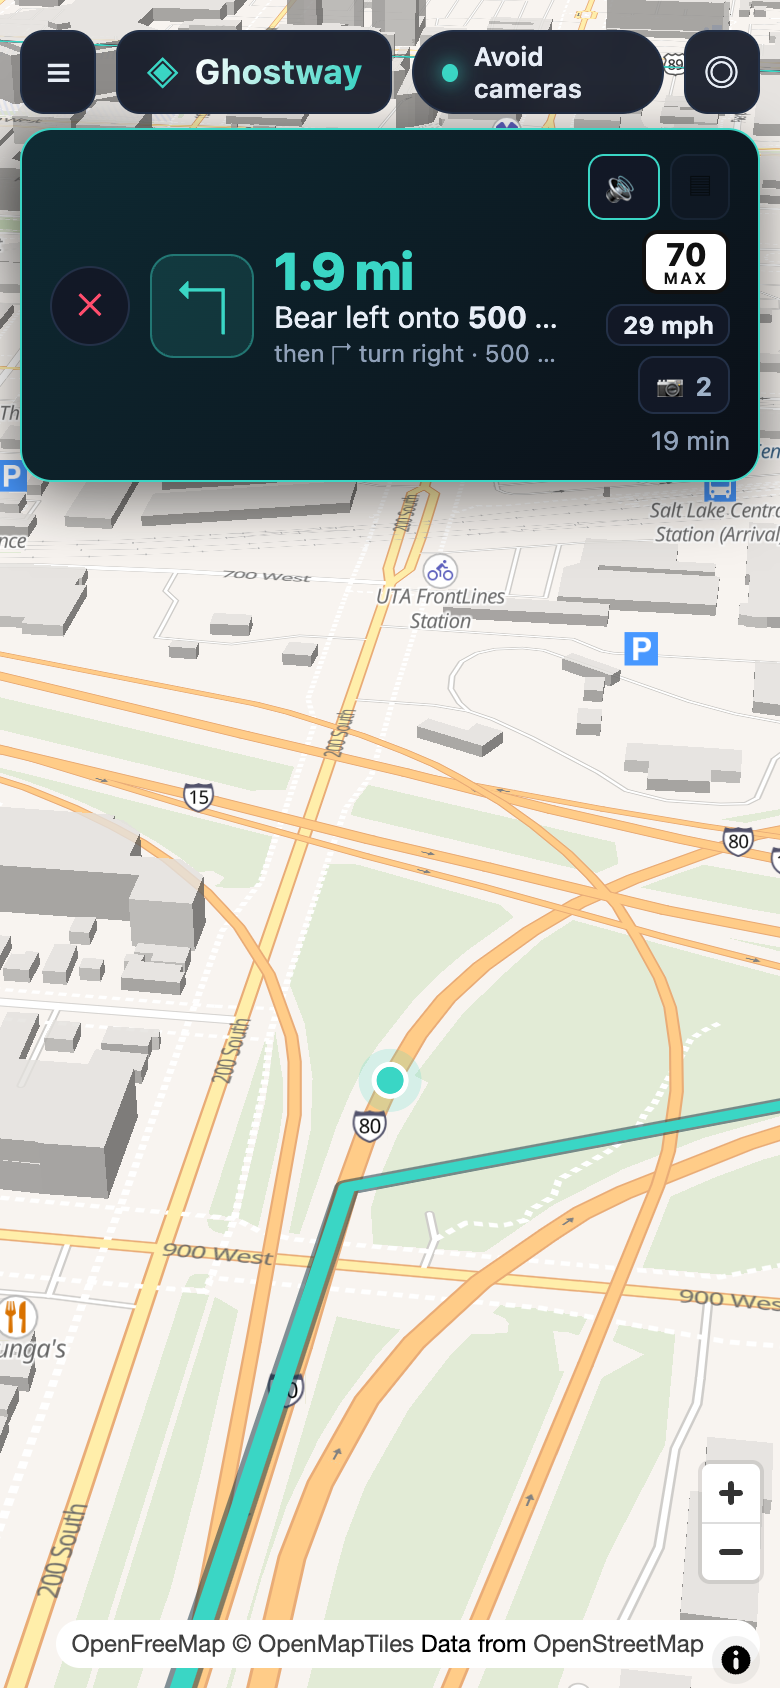
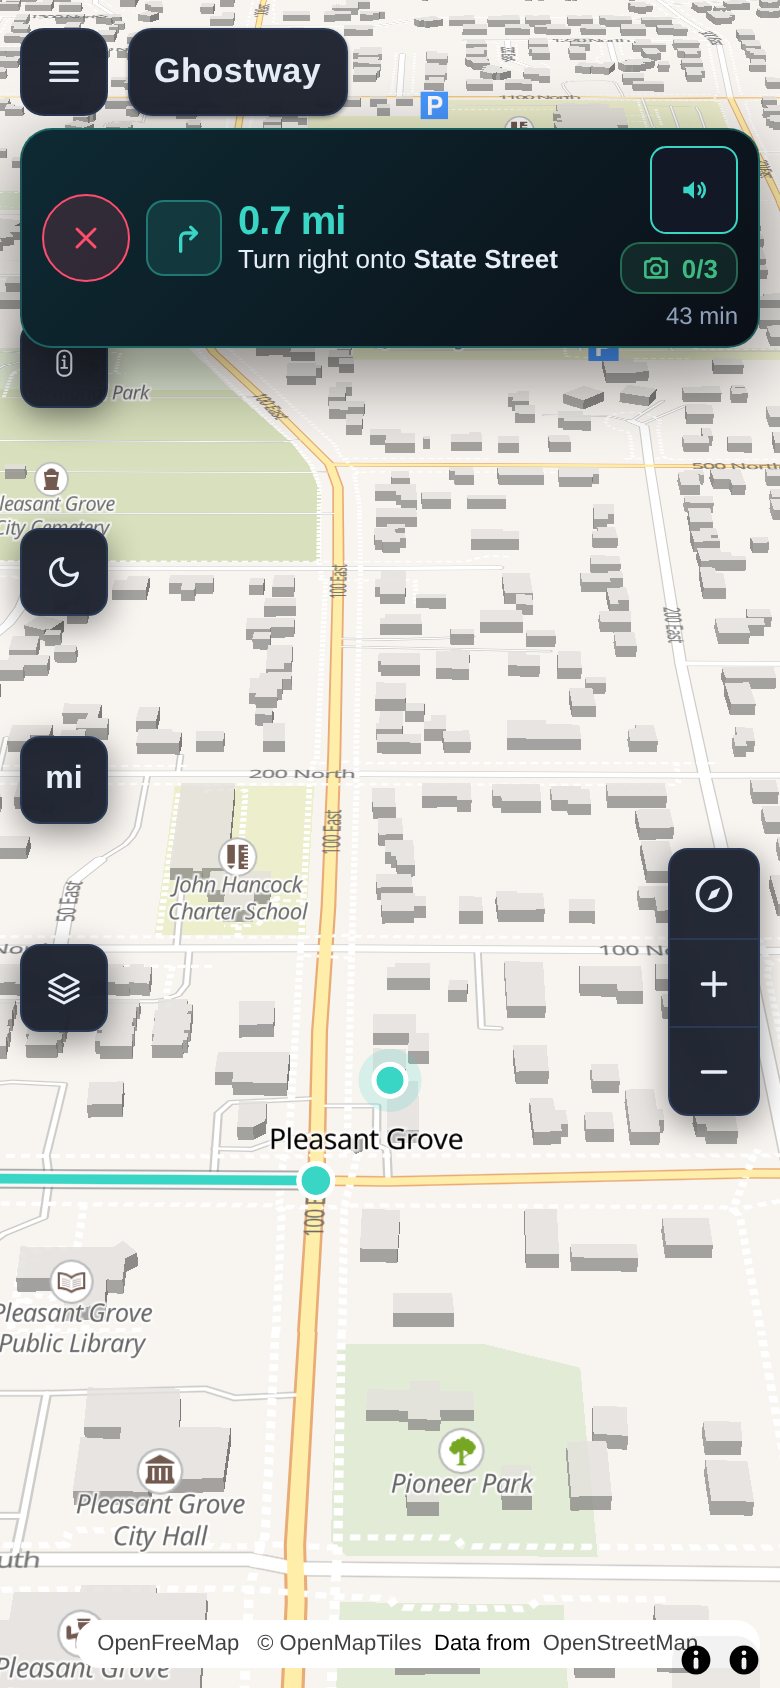
docs(readme): regenerate screenshots from current build and fix stale coverage facts (t_gwreadme1)
Screenshots (route-options.png, navigation.png) were dated 2026-09-25 and
predated the routing fixes. Regenerated from a build of current HEAD via the
new scripts/readme-screenshots.mjs harness (hermetic vite preview +
puppeteer-core + system chromium, 390x844 @2x, real app code paths only):

  route-options.png  Clearest 43 min / 3 cam, Balanced 43 min / 4 cam,
                     Fastest 41 min / 4 cam, 35 mi real route
  navigation.png     banner 0.7 mi, Turn right onto State Street,
                     camera counter 0/3, 43 min remaining

Harness waits for MapLibre tiles (areTilesLoaded poll) before the nav shot:
'idle' never fires under a live route, and the first pass captured a blank
basemap.

README facts corrected against the shipped artifacts:
  - Tier 1 is one shipped region covering the state of Utah, 1,528,472 road
    edges (graph header); graph is 1,477,863 nodes, ~19.5 MB gzipped.
    Dropped the unverified 9-300 ms routing claim.
  - 'Wasatch Front' graph-size line replaced with measured statewide figures.
  - Added: the graph downloads lazily, only for regions a route touches.
  - Testing: '20 automated suites' was stale; 80+ *-check.mjs suites ship.
  - Image paths unchanged and all local README targets verified present.

Not pushed: G-78 publish/merge gate.

diff --git a/README.md b/README.md
@@ -65,19 +65,21 @@ to keep you off those roads by default.
 
 | Tier | Engine | Coverage | Notes |
 |---|---|---|---|
-| 1 | **Ghostway's own graph** | Utah statewide, 1.5M road edges | On-device A*, camera + traffic costs + OSM turn restrictions, 9–300 ms per route |
+| 1 | **Ghostway's own graph** | Utah statewide (one shipped region), 1,528,472 road edges | On-device A*, camera + traffic costs + OSM turn restrictions. More regions are a graph build plus one `CONFIG.engineRegions` entry |
 | 2 | **Valhalla** (public demo) | Worldwide | Key-free, CORS-open; camera avoidance via `exclude_locations` |
 | 3 | **BRouter + OSRM** | Worldwide | Legacy fallback of last resort (flaky public servers) |
 
-Tier selection is automatic per corridor. Self-hosting Valhalla for higher
-limits is documented in [`docs/valhalla-docker.md`](docs/valhalla-docker.md) —
-point `CONFIG.valhallaUrl` at it and nothing else changes.
+Tier selection is automatic per corridor. The graph downloads lazily: only a
+route that touches a shipped region fetches that region's graph, so users
+elsewhere never pay for it. Self-hosting Valhalla for higher limits is
+documented in [`docs/valhalla-docker.md`](docs/valhalla-docker.md): point
+`CONFIG.valhallaUrl` at it and nothing else changes.
 
 ## How camera avoidance works (own engine)
 
 1. OpenStreetMap roads are filtered to drivable ways and compiled into a
-   compact binary graph (`engine/build-graph.mjs`, ~7 MB gzipped for the
-   Wasatch Front).
+   compact binary graph (`engine/build-graph.mjs`; 1,477,863 nodes and
+   1,528,472 edges, ~19.5 MB gzipped, covering the state of Utah).
 2. Every DeFlock camera is scored onto nearby road segments: ALPR brands
    (Flock, Motorola, Rekor, …) and traffic-facing cameras get full weight,
    other surveillance half weight.
@@ -171,10 +173,11 @@ open-source servers above. There is no analytics and never will be.
 
 ## Testing
 
-20 automated suites (`scripts/*.mjs`) cover routing, avoidance, the full UI
-with real mouse hit-testing, simulated GPS drive-throughs, traffic, ETA
-accuracy, and the report flow. Run any of them after `npm run build`;
-`smoke.mjs` and `interact-check.mjs` are the fast core pair.
+Headless check suites in `scripts/` (80+ named `*-check.mjs`) cover routing,
+avoidance, the full UI with real mouse hit-testing, simulated GPS
+drive-throughs, traffic, ETA accuracy, and the report flow. Most drive the
+built bundle, so run `npm run build` first; `smoke.mjs` and
+`interact-check.mjs` are the fast core pair.
 
 ## License
 
